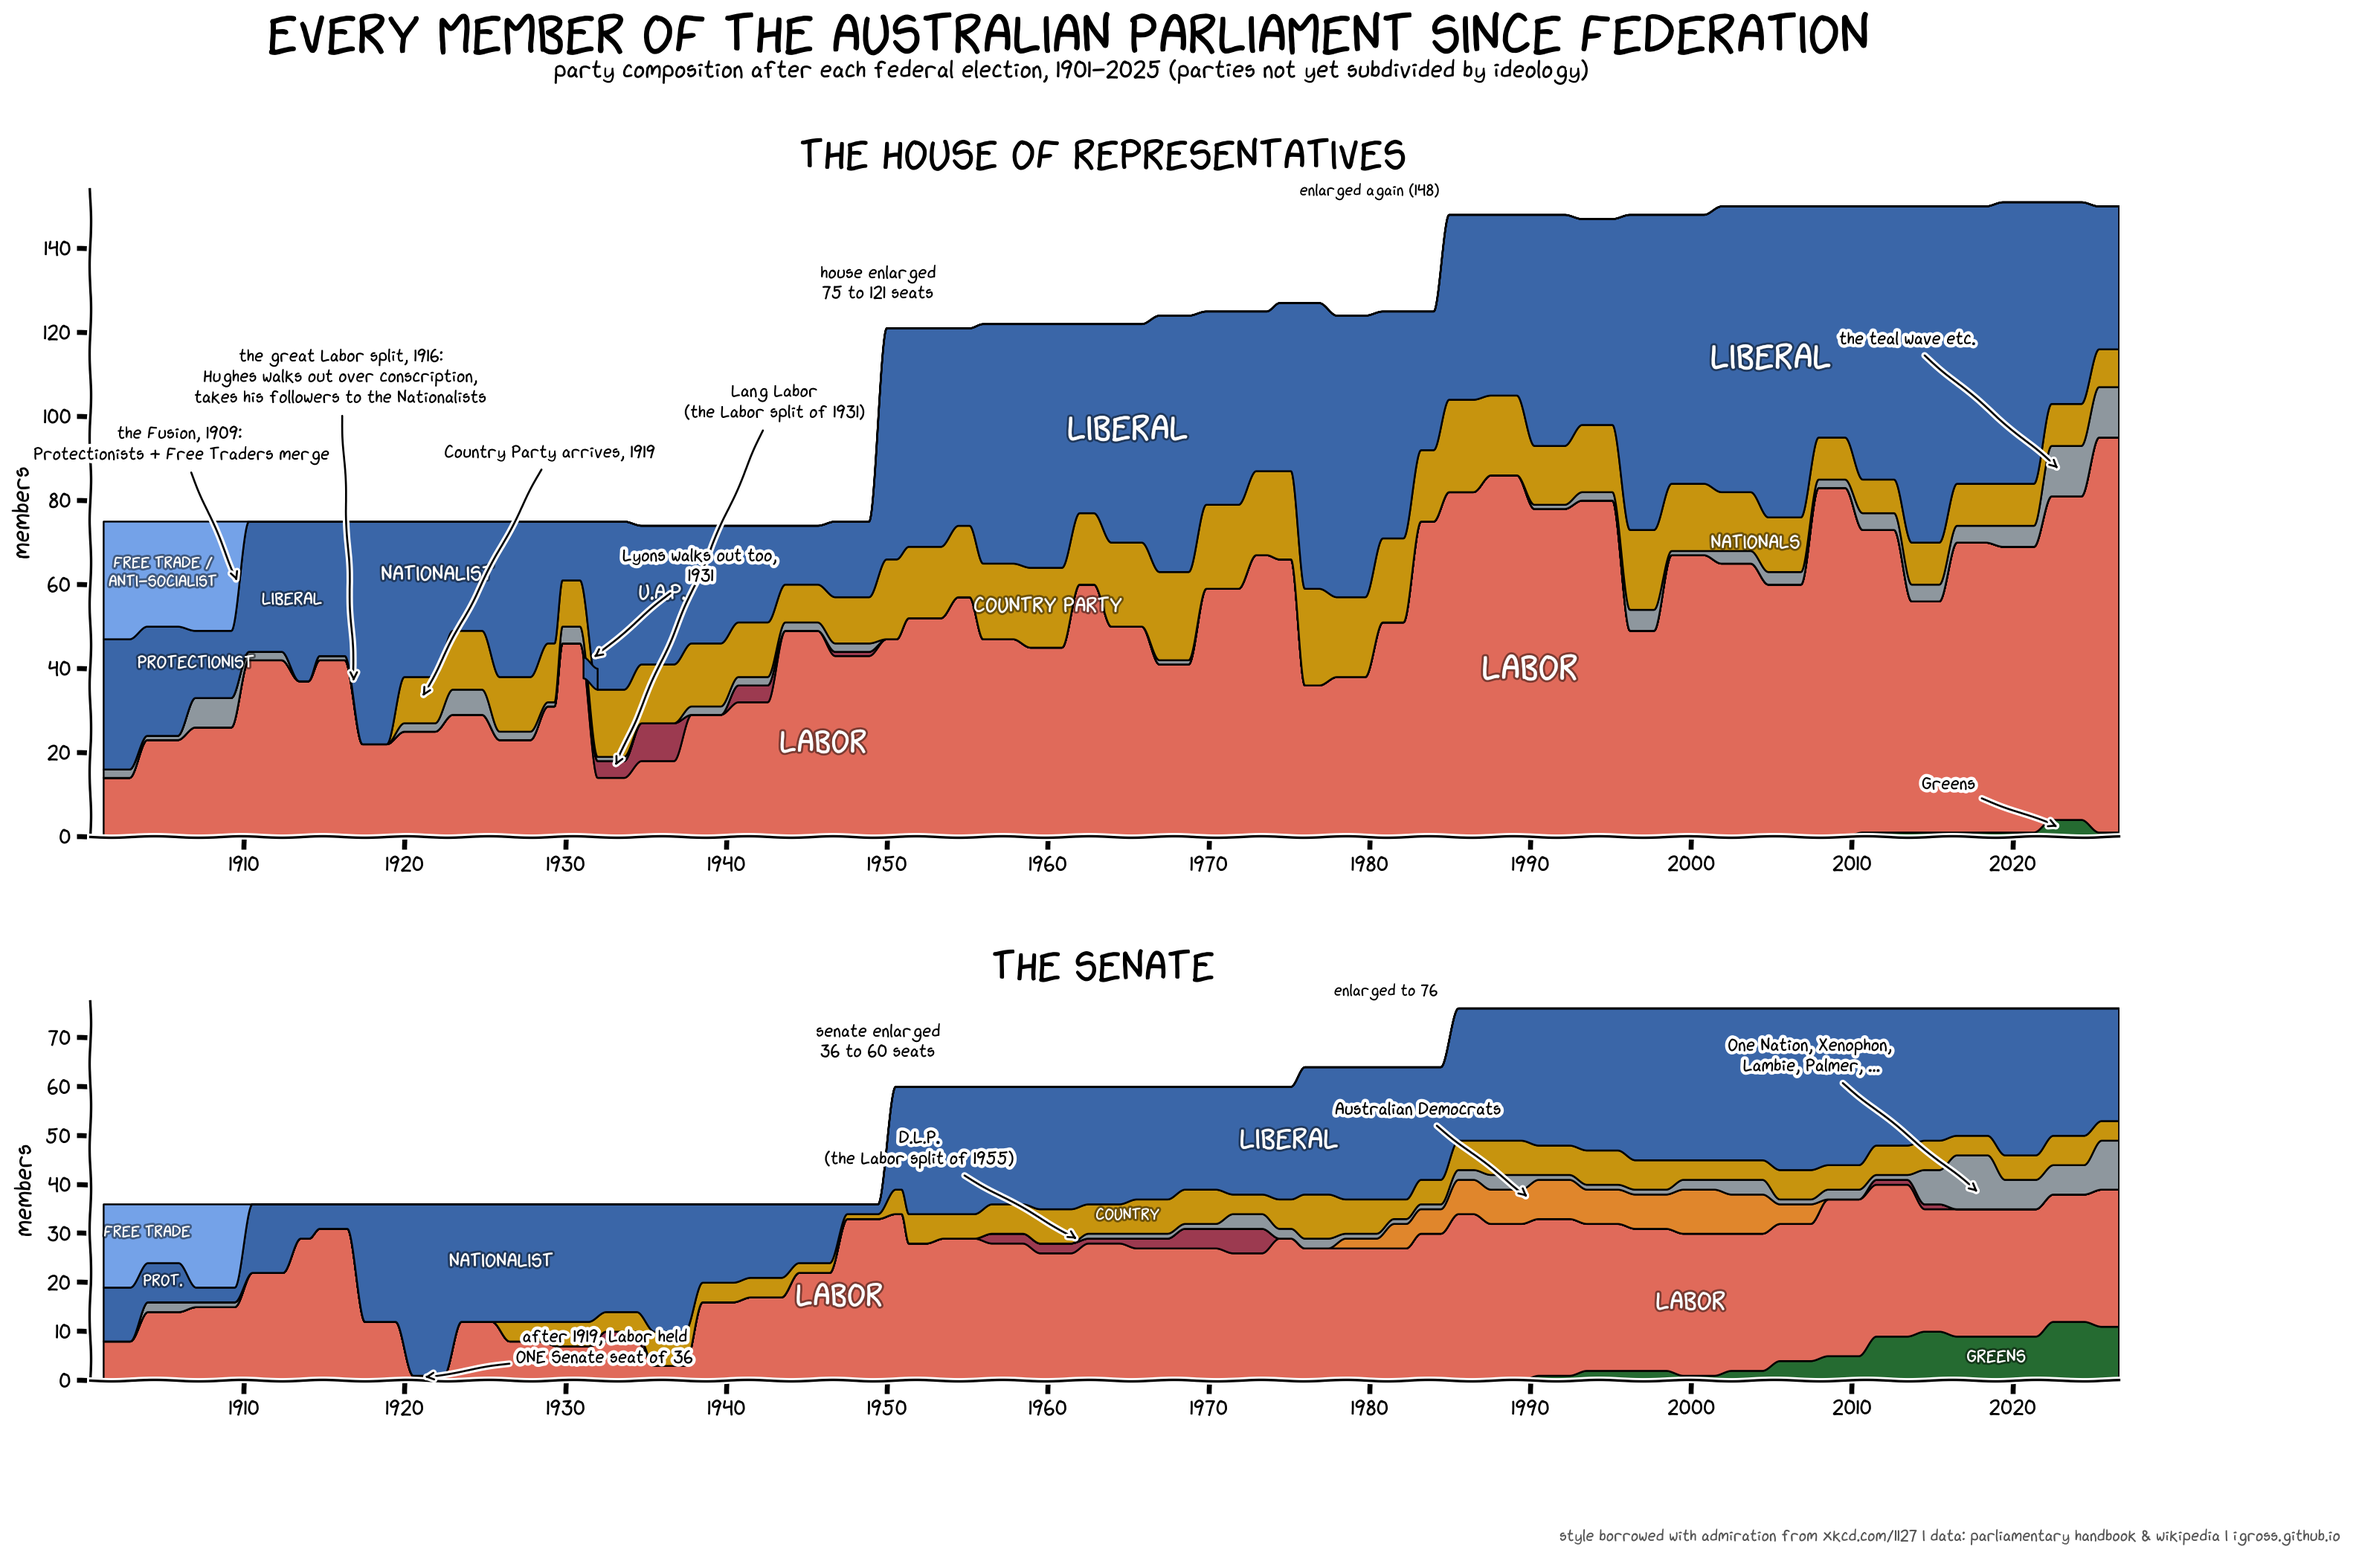
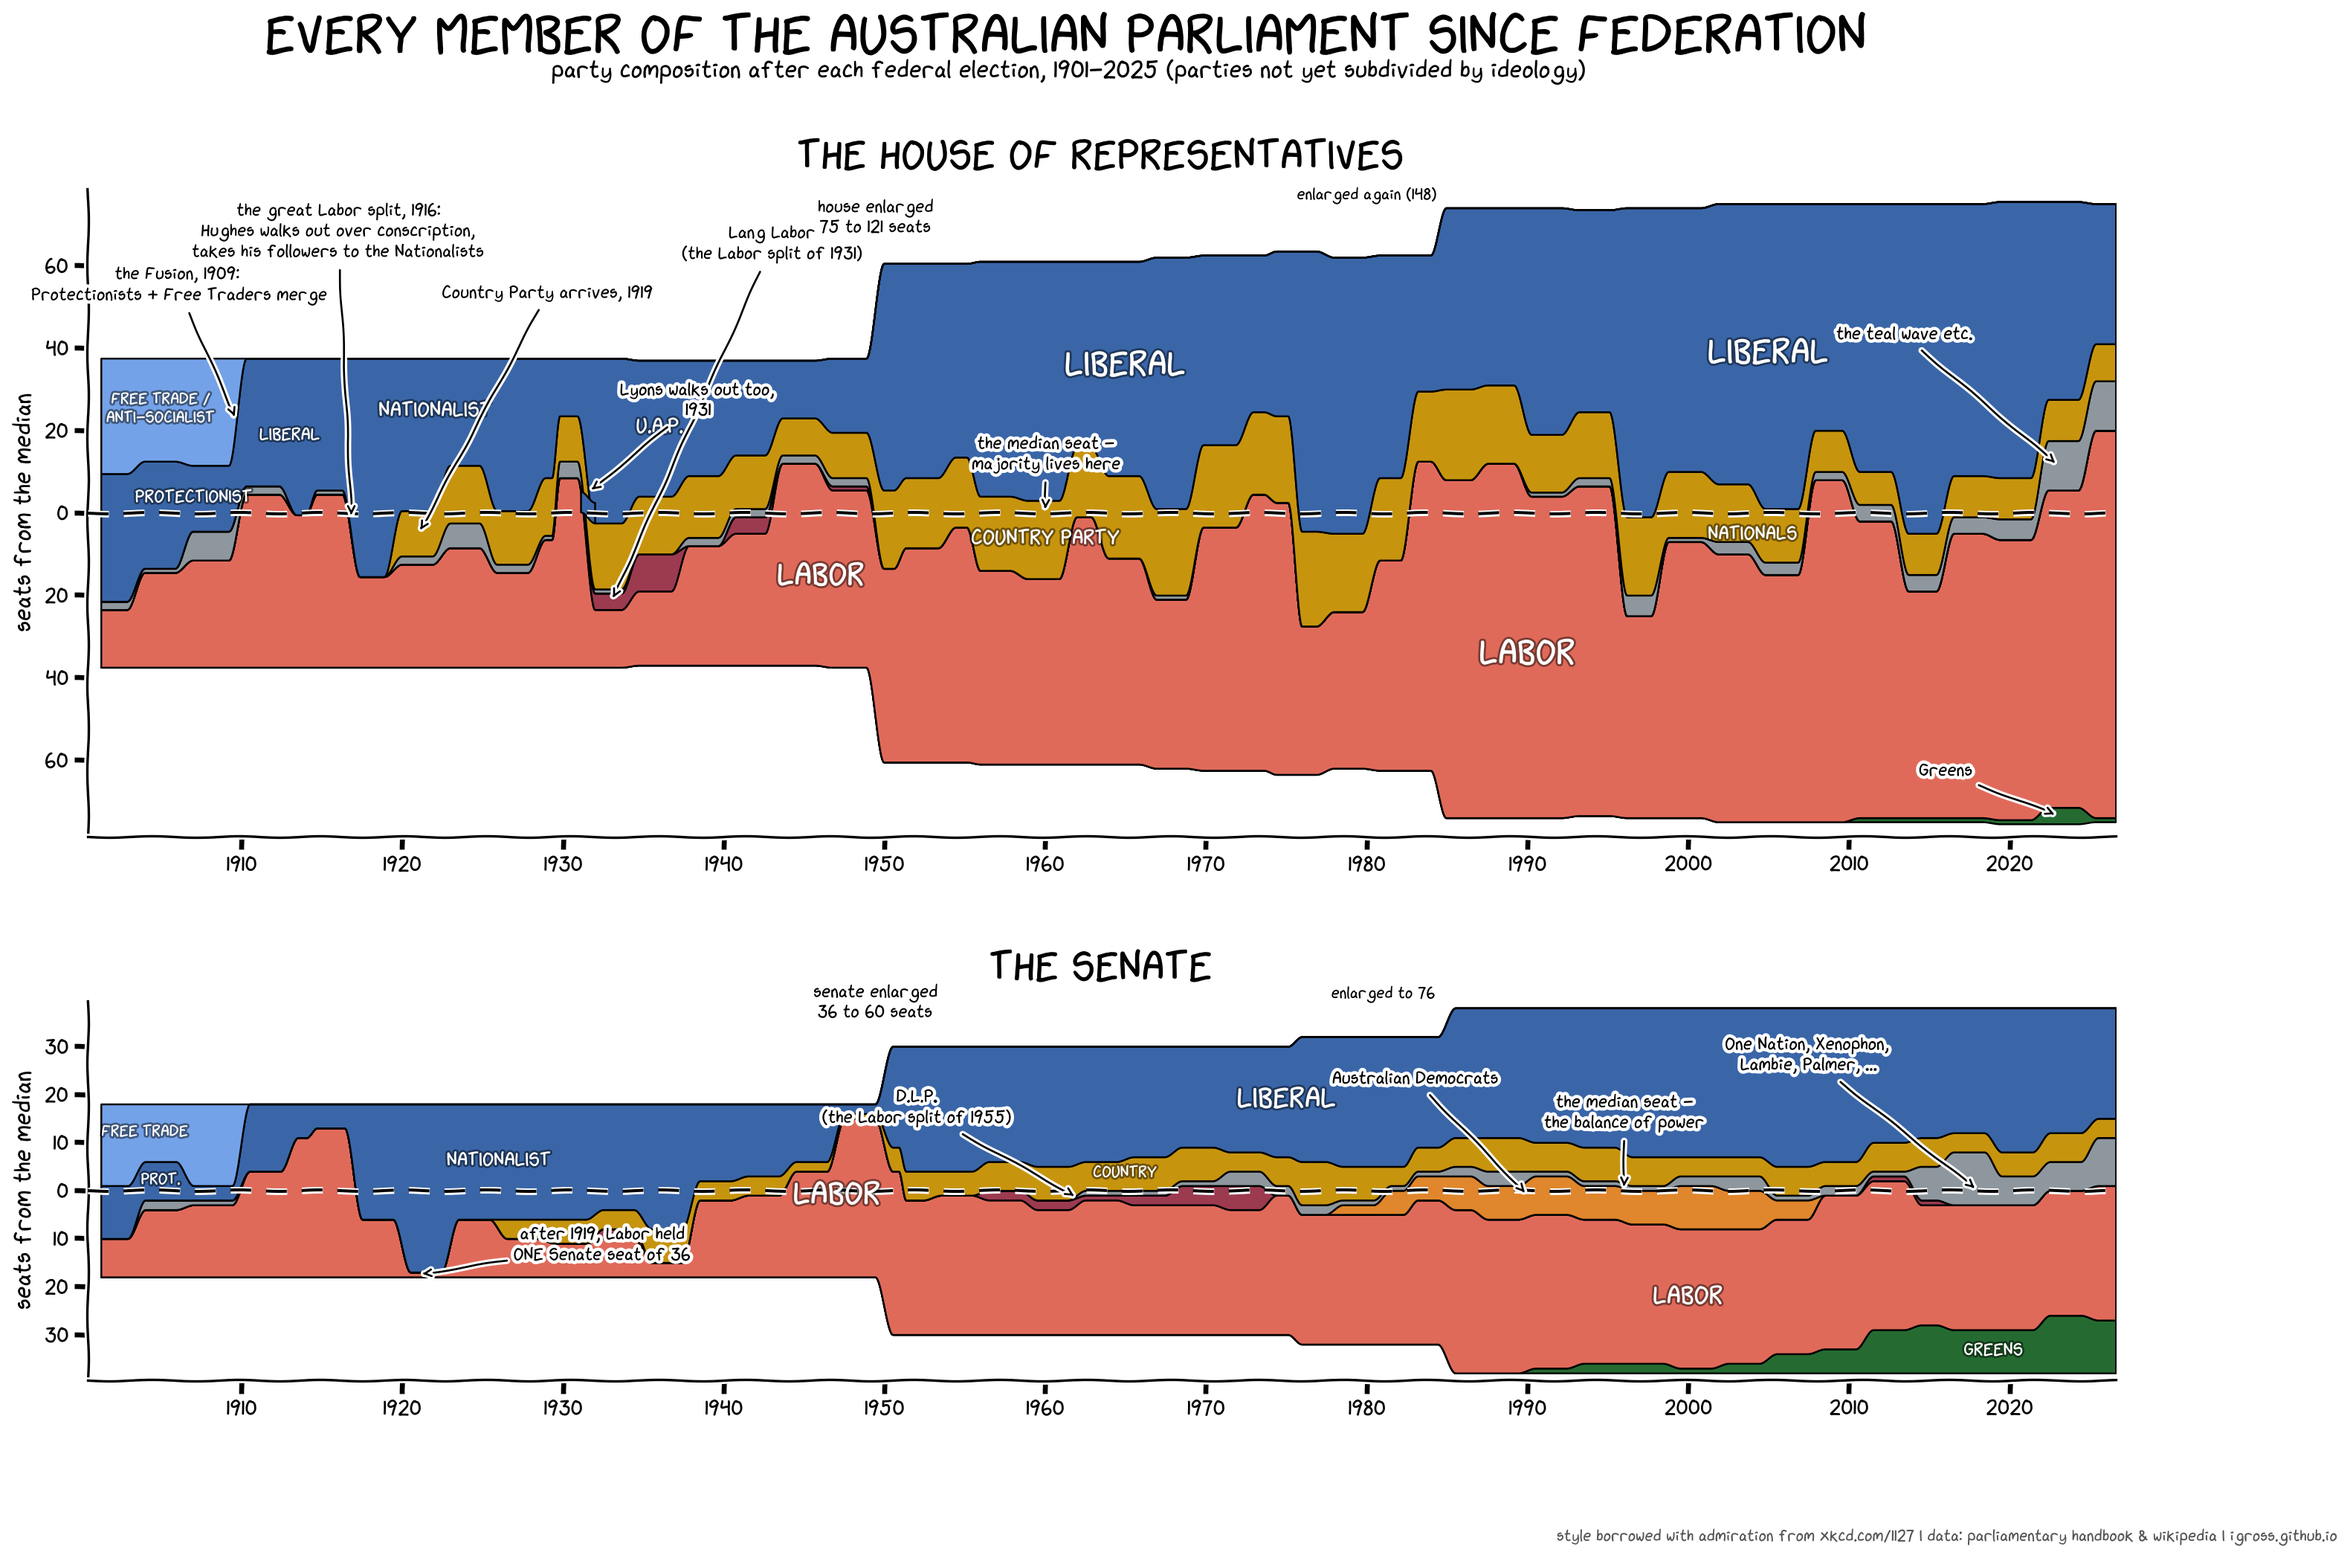
Centre both chambers on the median seat
Offset each stack by half the chamber size so y = 0 is always the middle
member, with a dashed centreline: whichever band crosses it holds the
House majority or the Senate balance of power. Y-axis now reads as seats
from the median; annotations rebased to the centred coordinates, with
captions pointing out the median seat in each panel.

Claude-Session: https://claude.ai/code/session_011XPQWBrUcowLAmpWzwwUu6

diff --git a/scripts/plot_parliament_xkcd.py b/scripts/plot_parliament_xkcd.py
@@ -176,21 +176,28 @@ def flow_series(wide):
 
 def draw_chamber(ax, wide, title):
     xs, rows = flow_series(wide)
+    keys = [b[0] for b in BANDS]
+    totals = rows[keys].sum(axis=1).tolist()
     edges = {}  # band key -> (bottom array, top array), for flow ribbons
-    bottom = [0.0] * len(xs)
+    # Centre the stack on the median seat: y = 0 is always the middle
+    # member of the chamber, so whichever band crosses the line holds it.
+    bottom = [-t / 2.0 for t in totals]
     for key, colour, _label in BANDS:
         top = [b + v for b, v in zip(bottom, rows[key])]
         ax.fill_between(xs, bottom, top, facecolor=colour,
                         edgecolor="black", linewidth=1.1, zorder=2)
         edges[key] = (list(bottom), list(top))
         bottom = top
+    ax.axhline(0, color="black", lw=1.8, ls=(0, (7, 5)), zorder=4)
     ax.set_title(title, fontsize=26, pad=12)
     ax.set_xlim(mdates.date2num(date(1900, 6, 1)), mdates.date2num(END_OF_DATA))
-    ax.set_ylim(0, max(bottom) * 1.02)
+    half = max(totals) * 1.04 / 2.0
+    ax.set_ylim(-half, half)
     ax.xaxis.set_major_locator(mdates.YearLocator(10))
     ax.xaxis.set_major_formatter(mdates.DateFormatter("%Y"))
+    ax.yaxis.set_major_formatter(plt.FuncFormatter(lambda v, _: f"{abs(v):.0f}"))
     ax.tick_params(labelsize=13)
-    ax.set_ylabel("members", fontsize=15)
+    ax.set_ylabel("seats from the median", fontsize=15)
     for s in ("top", "right"):
         ax.spines[s].set_visible(False)
     return xs, edges
@@ -216,12 +223,12 @@ def flow_ribbon(ax, xs, edges, t0, from_key, t1, to_key, width, colour):
 
 
 def band_mid(wide, key, year):
-    """y midpoint of a band at a given year, for placing labels."""
+    """y midpoint of a band at a given year (median-centred coordinates)."""
     d = min(wide.index, key=lambda x: abs((x - date(year, 1, 1)).days))
     row = wide.loc[d]
     keys = [b[0] for b in BANDS]
     below = sum(row[k] for k in keys[: keys.index(key)])
-    return below + row[key] / 2.0
+    return below + row[key] / 2.0 - sum(row[k] for k in keys) / 2.0
 
 
 def label(ax, wide, key, year, text, colour="white", dy=0, fontsize=14, **kw):
@@ -286,32 +293,37 @@ def main():
         label(axh, house, "NAT", 1960, "COUNTRY PARTY", fontsize=13)
         label(axh, house, "NAT", 2004, "NATIONALS", fontsize=12)
         axh.annotate("the Fusion, 1909:\nProtectionists + Free Traders merge",
-                     xy=(mdates.date2num(date(1909, 9, 1)), 60),
-                     xytext=(mdates.date2num(date(1906, 1, 1)), 93),
+                     xy=(mdates.date2num(date(1909, 9, 1)), 22.5),
+                     xytext=(mdates.date2num(date(1906, 1, 1)), 55),
                      fontsize=11, ha="center", va="center", zorder=6,
                      arrowprops=dict(arrowstyle="->", lw=1.2, color="black"))
         axh.annotate("the great Labor split, 1916:\nHughes walks out over conscription,\n"
                      "takes his followers to the Nationalists",
-                     xy=(mdates.date2num(date(1916, 11, 1)), 36),
-                     xytext=(mdates.date2num(date(1916, 1, 1)), 109),
+                     xy=(mdates.date2num(date(1916, 11, 1)), -1.5),
+                     xytext=(mdates.date2num(date(1916, 1, 1)), 68),
                      fontsize=11, ha="center", va="center", zorder=6,
                      arrowprops=dict(arrowstyle="->", lw=1.2, color="black"))
         annotate_arrow(axh, house, "NAT", 1921, "Country Party arrives, 1919",
-                       (mdates.date2num(date(1929, 1, 1)), 91))
+                       (mdates.date2num(date(1929, 1, 1)), 53))
         annotate_arrow(axh, house, "ALPX", 1933, "Lang Labor\n(the Labor split of 1931)",
-                       (mdates.date2num(date(1943, 1, 1)), 103))
+                       (mdates.date2num(date(1943, 1, 1)), 65))
         axh.annotate("Lyons walks out too,\n1931", zorder=6,
-                     xy=(mdates.date2num(date(1931, 8, 1)), 42),
-                     xytext=(mdates.date2num(date(1938, 6, 1)), 64),
+                     xy=(mdates.date2num(date(1931, 8, 1)), 5),
+                     xytext=(mdates.date2num(date(1938, 6, 1)), 27),
                      fontsize=11, ha="center", va="center",
                      arrowprops=dict(arrowstyle="->", lw=1.2, color="black"))
         annotate_arrow(axh, house, "GRN", 2023, "Greens",
-                       (mdates.date2num(date(2016, 1, 1)), 12))
+                       (mdates.date2num(date(2016, 1, 1)), -63))
         annotate_arrow(axh, house, "OTH", 2023, "the teal wave etc.",
-                       (mdates.date2num(date(2013, 6, 1)), 118))
-        axh.text(mdates.date2num(date(1949, 6, 1)), 128,
+                       (mdates.date2num(date(2013, 6, 1)), 43))
+        axh.annotate("the median seat -\nmajority lives here",
+                     xy=(mdates.date2num(date(1960, 1, 1)), 0),
+                     xytext=(mdates.date2num(date(1960, 1, 1)), 14),
+                     fontsize=11, ha="center", va="center", zorder=6,
+                     arrowprops=dict(arrowstyle="->", lw=1.2, color="black"))
+        axh.text(mdates.date2num(date(1949, 6, 1)), 68,
                  "house enlarged\n75 to 121 seats", fontsize=11, ha="center")
-        axh.text(mdates.date2num(date(1980, 1, 1)), 152.5,
+        axh.text(mdates.date2num(date(1980, 1, 1)), 76,
                  "enlarged again (148)", fontsize=10, ha="center")
 
         # ------------------------------------------------------------------
@@ -326,16 +338,21 @@ def main():
         label(axs, senate, "NAT", 1965, "COUNTRY", fontsize=10)
         label(axs, senate, "GRN", 2019, "GREENS", fontsize=11)
         annotate_arrow(axs, senate, "ALP", 1921, "after 1919, Labor held\nONE Senate seat of 36",
-                       (mdates.date2num(date(1932, 6, 1)), 6.5))
+                       (mdates.date2num(date(1932, 6, 1)), -11.5))
         annotate_arrow(axs, senate, "ALPX", 1962, "D.L.P.\n(the Labor split of 1955)",
-                       (mdates.date2num(date(1952, 1, 1)), 47))
+                       (mdates.date2num(date(1952, 1, 1)), 17))
         annotate_arrow(axs, senate, "DEM", 1990, "Australian Democrats",
-                       (mdates.date2num(date(1983, 1, 1)), 55))
+                       (mdates.date2num(date(1983, 1, 1)), 23))
         annotate_arrow(axs, senate, "OTH", 2018, "One Nation, Xenophon,\nLambie, Palmer, ...",
-                       (mdates.date2num(date(2007, 6, 1)), 66))
-        axs.text(mdates.date2num(date(1949, 6, 1)), 66,
+                       (mdates.date2num(date(2007, 6, 1)), 28))
+        axs.annotate("the median seat -\nthe balance of power",
+                     xy=(mdates.date2num(date(1996, 1, 1)), 0),
+                     xytext=(mdates.date2num(date(1996, 1, 1)), 16),
+                     fontsize=11, ha="center", va="center", zorder=6,
+                     arrowprops=dict(arrowstyle="->", lw=1.2, color="black"))
+        axs.text(mdates.date2num(date(1949, 6, 1)), 36,
                  "senate enlarged\n36 to 60 seats", fontsize=11, ha="center")
-        axs.text(mdates.date2num(date(1981, 1, 1)), 78.5,
+        axs.text(mdates.date2num(date(1981, 1, 1)), 40,
                  "enlarged to 76", fontsize=10, ha="center")
 
         fig.suptitle("EVERY MEMBER OF THE AUSTRALIAN PARLIAMENT SINCE FEDERATION",
